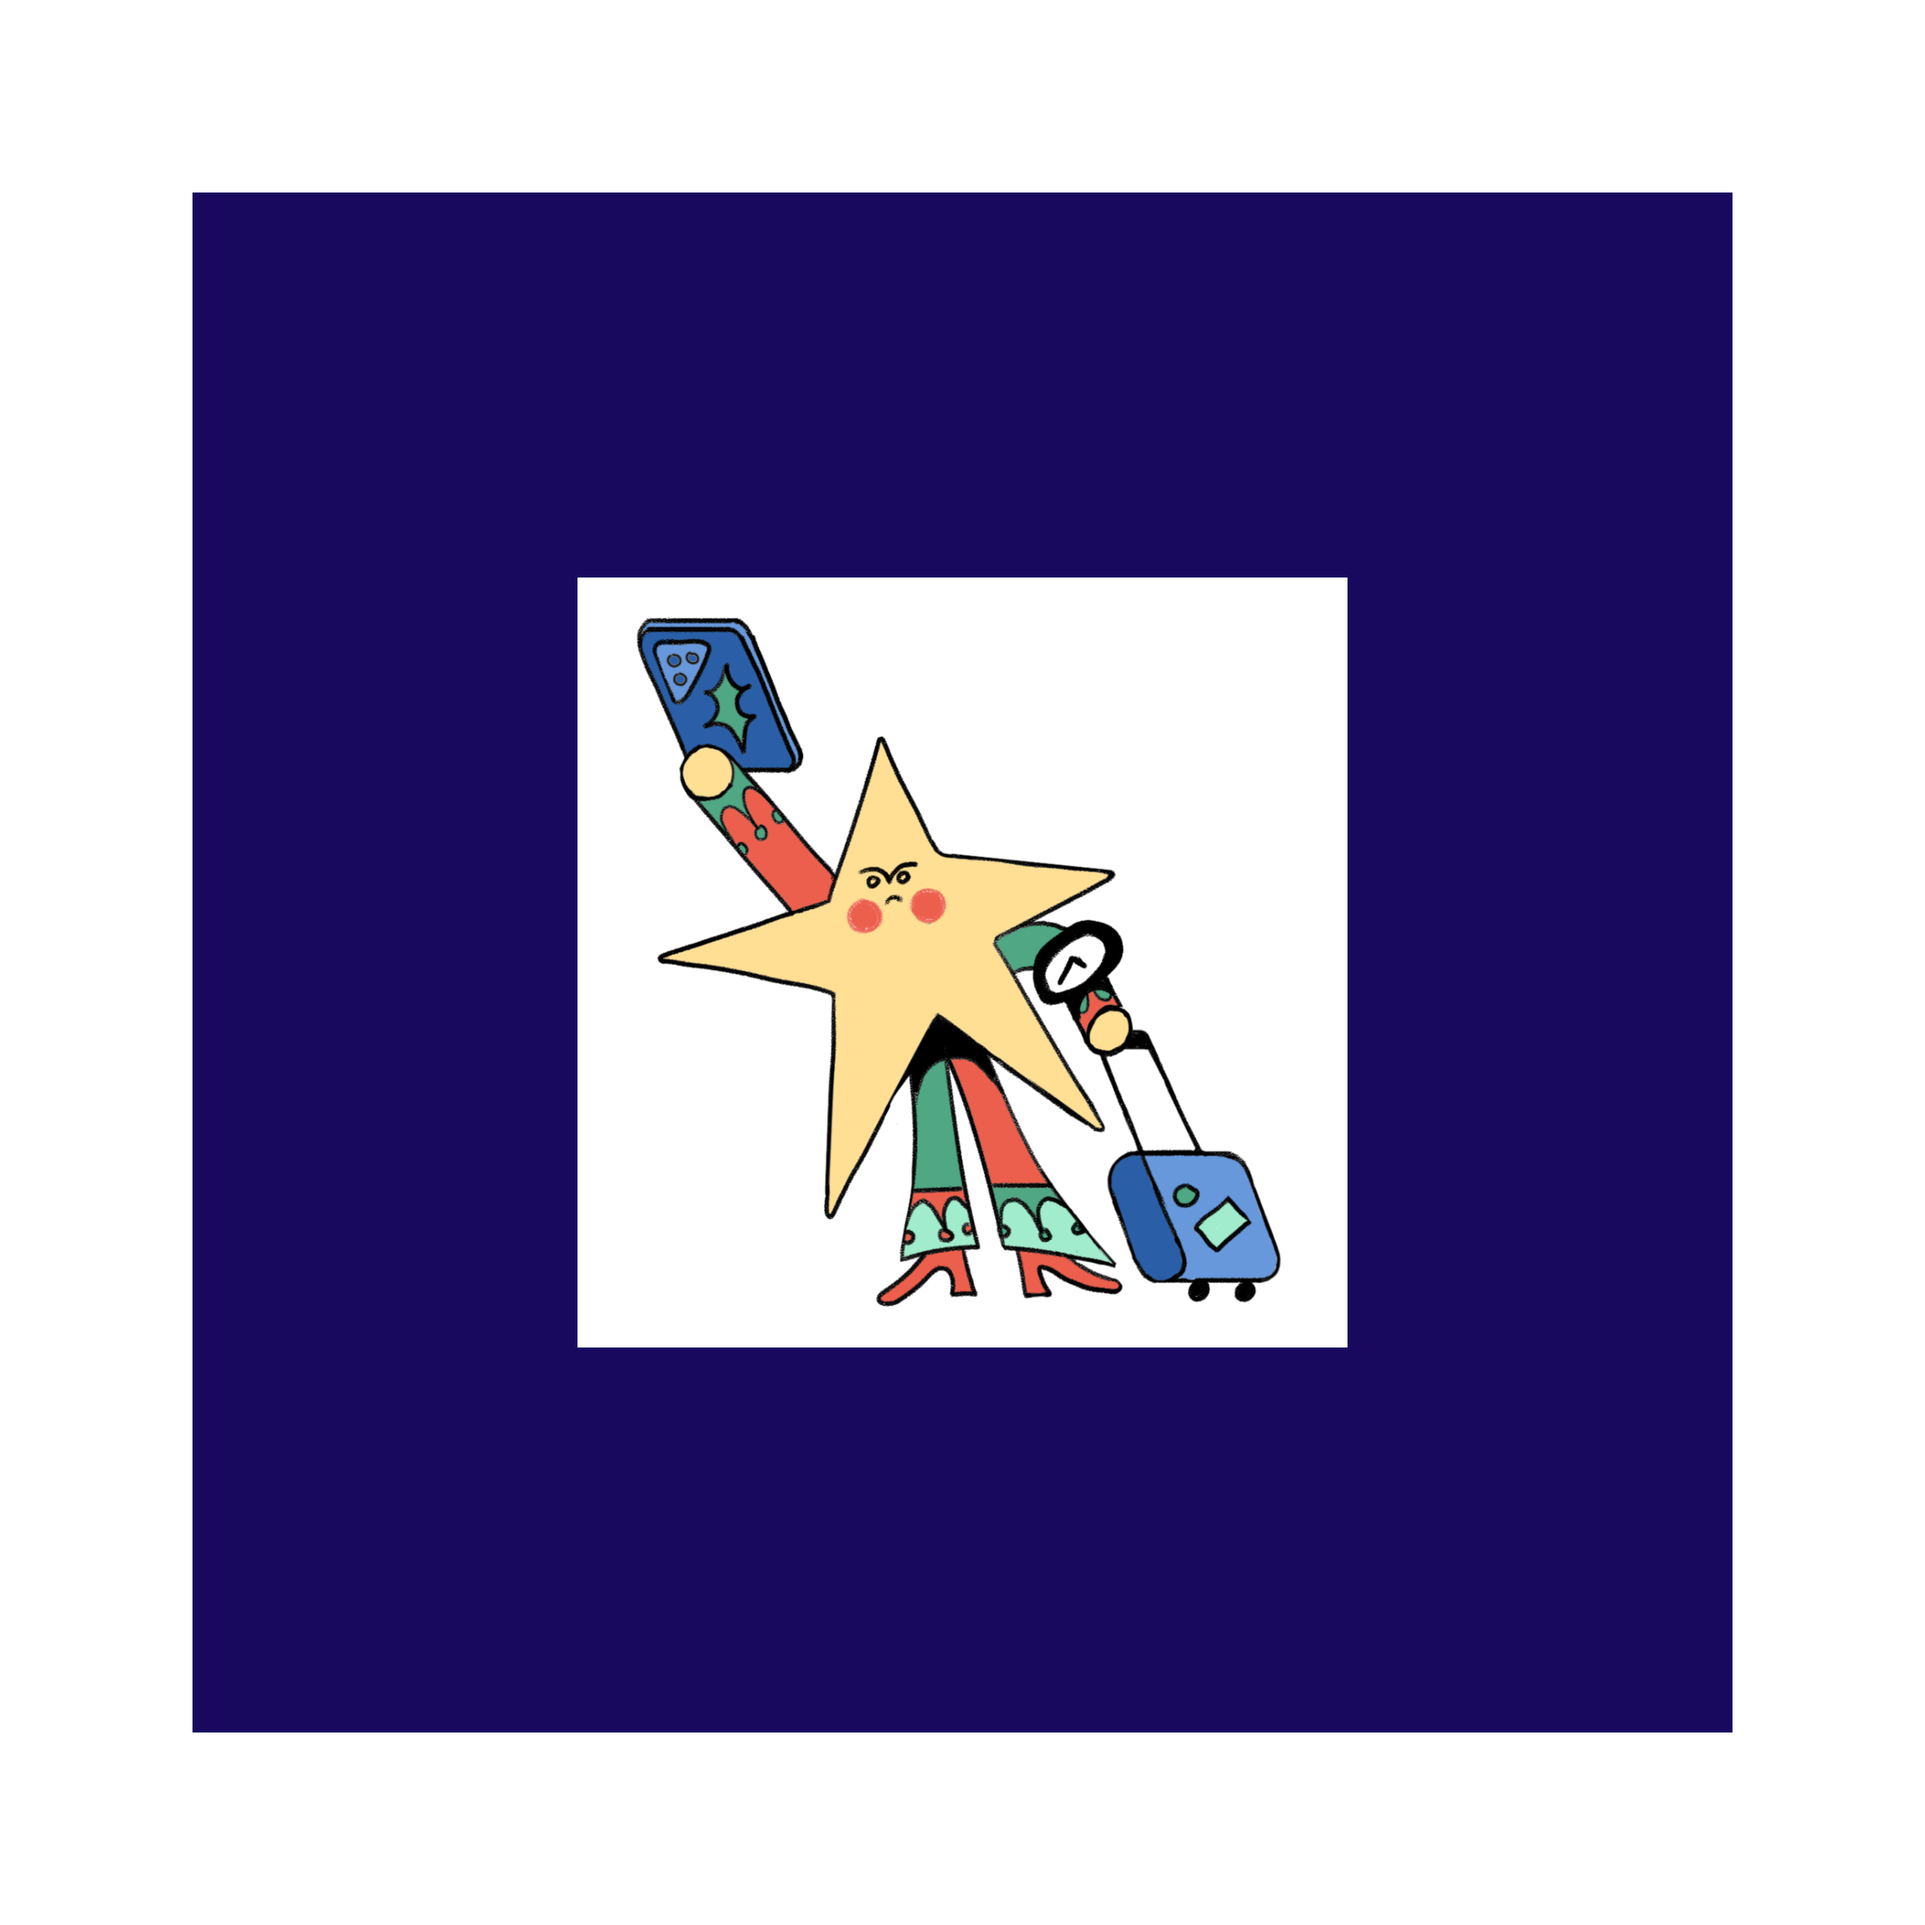
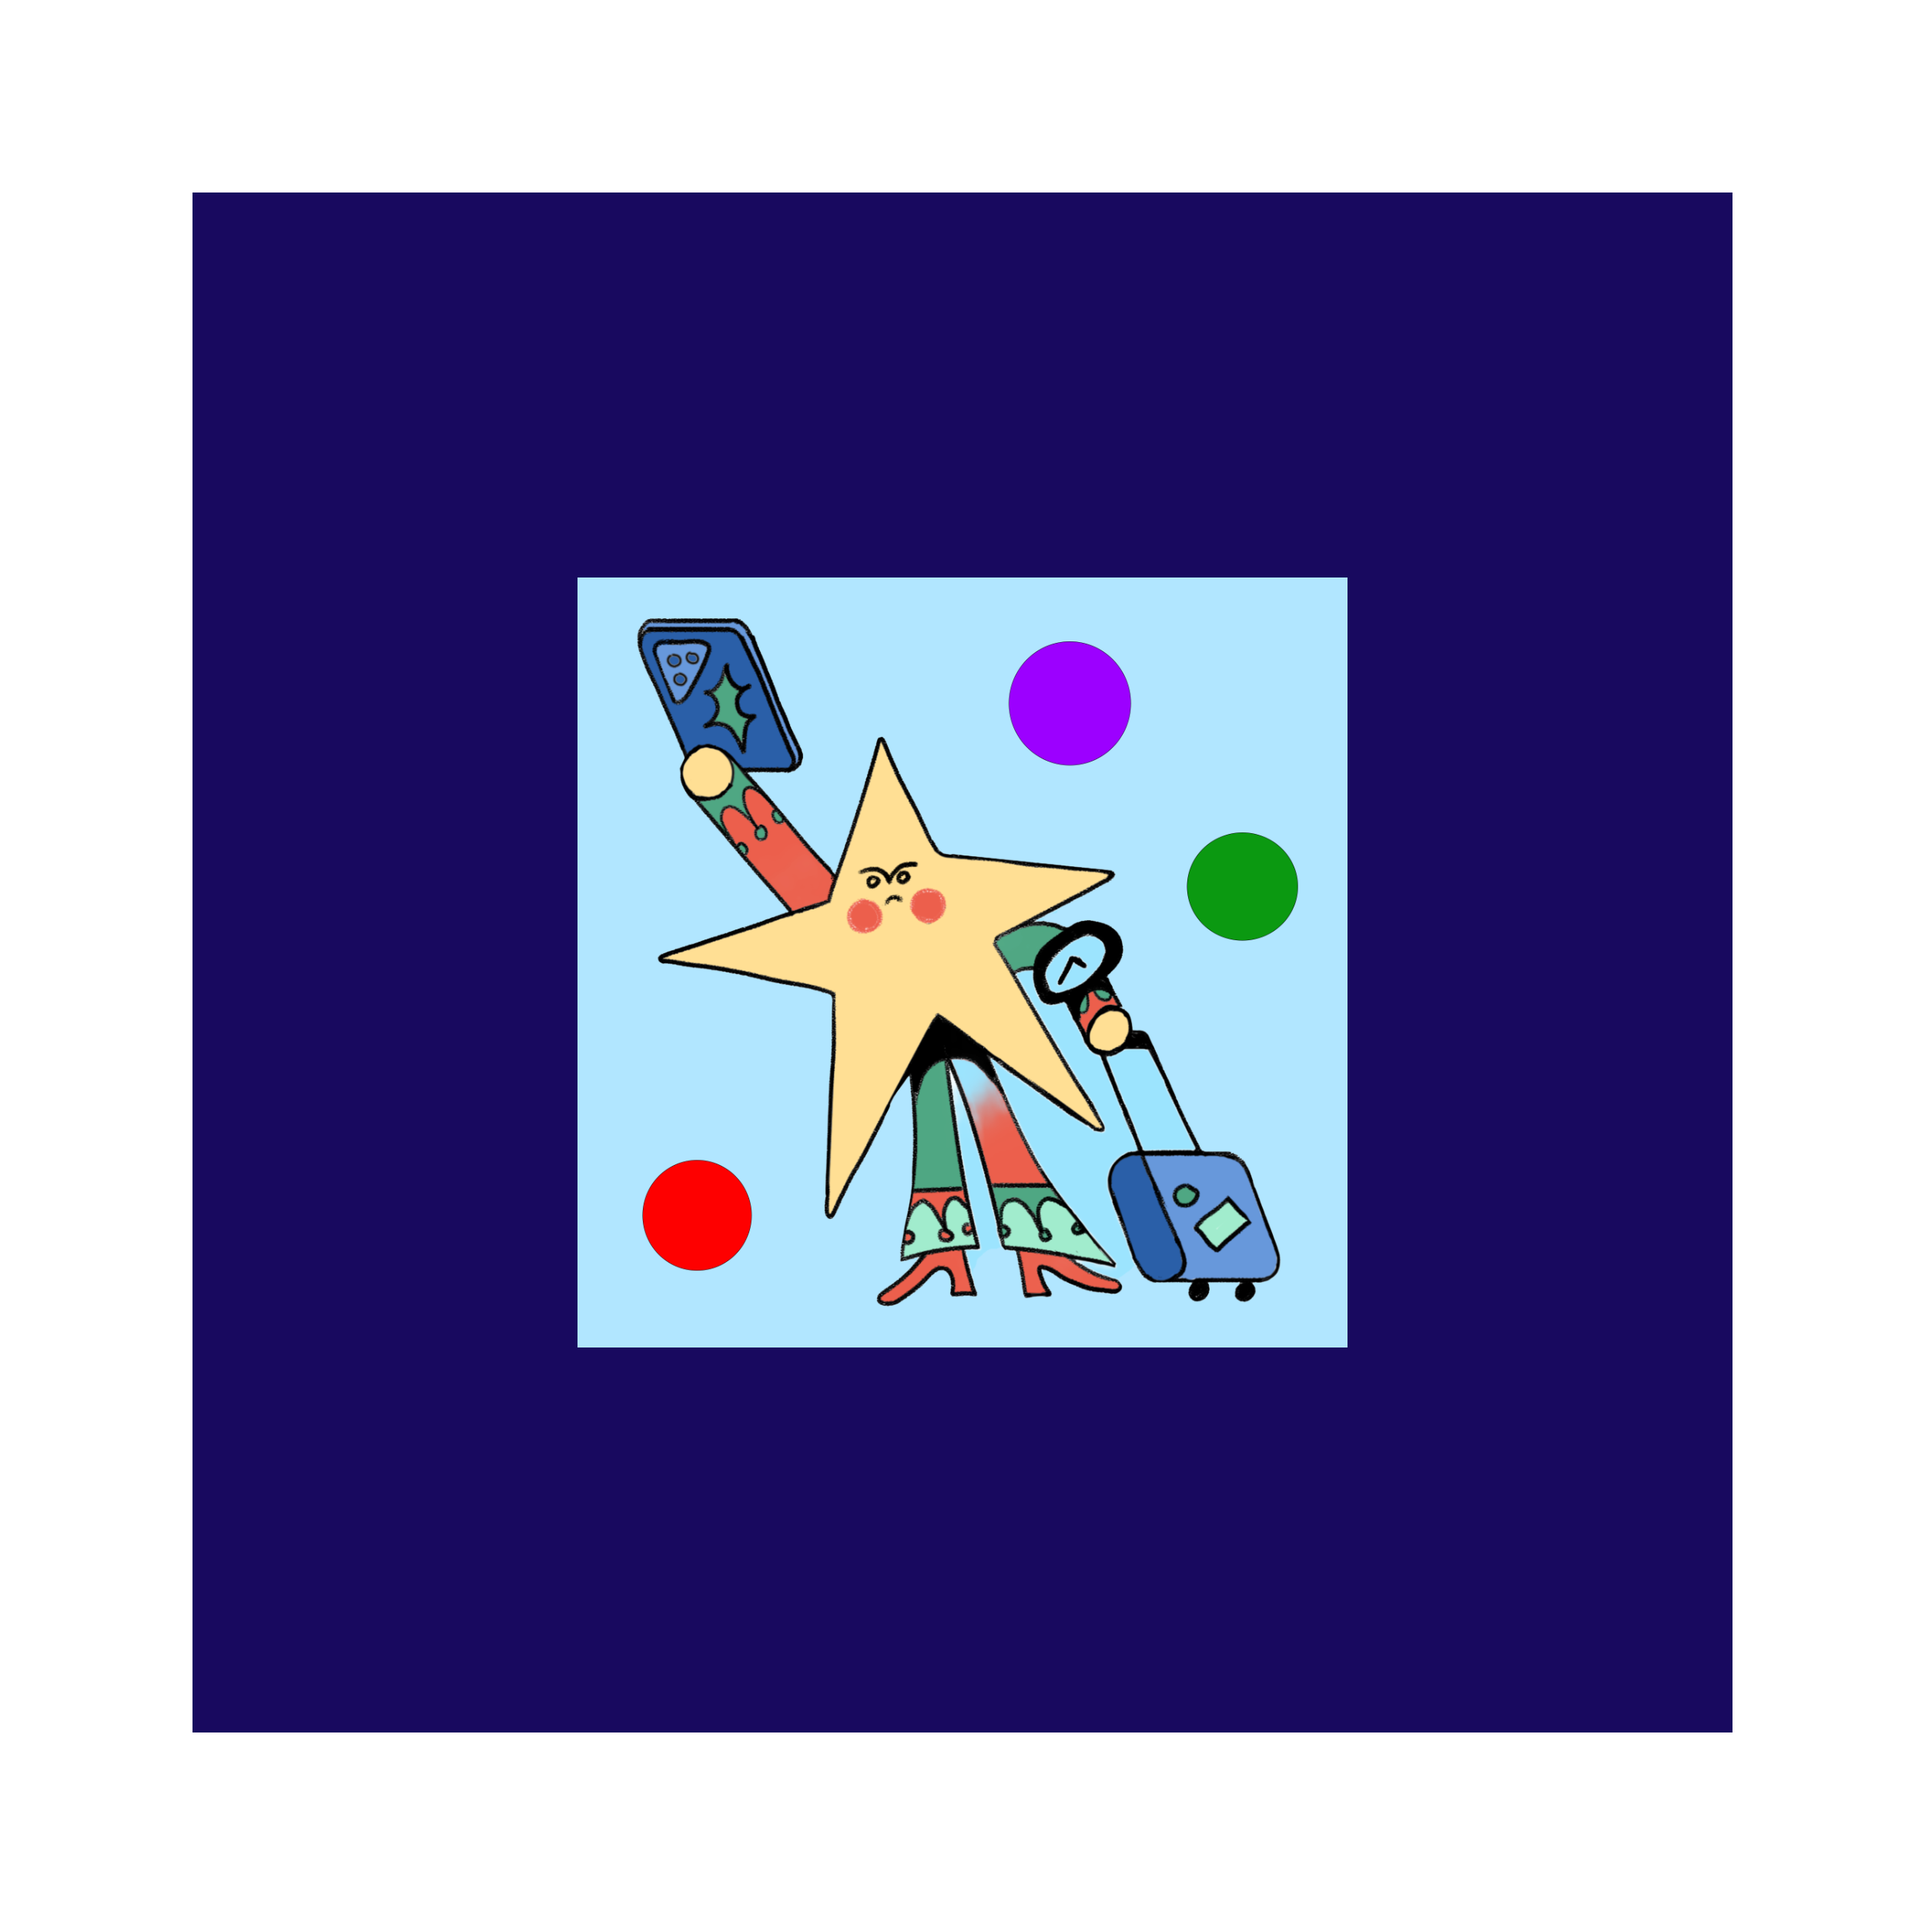
added spash page styling and artwork

Changed region(s): [[0.2808, 0.2808, 0.7176, 0.7176]]

diff --git a/index.html b/index.html
@@ -25,7 +25,19 @@
     body {
       margin: 0;
       padding: 0;
-      background: linear-gradient(180deg, #0f2240 0%, #1a4d6d 50%, #2d5a7b 100%);
+      background-color: #bacde9; 
+      background-image: 
+        linear-gradient(180deg, 
+          rgb(46, 93, 159) 0%, 
+          rgba(105, 147, 205, 0.9) 50%,
+          rgba(135, 206, 250, 0.1) 60%,
+          rgba(135, 206, 250, 0) 75%
+        ),
+        url('assets/characters.png');
+      background-size: auto 70%, 100% auto;
+      background-position: center top, center bottom;
+      background-repeat: no-repeat;
+      background-attachment: fixed;
       color: #fff;
       font-family: "Georgia", serif;
       min-height: 100vh;
@@ -65,14 +77,14 @@
       letter-spacing: 3px; 
       font-weight: 300; 
       position: relative;
-      animation: float 6s ease-in-out infinite;
+      /* animation: float 6s ease-in-out infinite; */
     }
     .tagline { 
       text-align: center; 
       font-size: 1.3em; 
       color: #e0f0ff; 
       text-shadow: 2px 2px 4px rgba(0,0,0,0.3); 
-      
+      padding: 1em 0em 3em 0em; 
       z-index: 10; 
       letter-spacing: 3px; 
       position: relative;
@@ -85,14 +97,14 @@
       display: flex; 
       flex: 1; 
       gap: 2em; 
-      padding: 2em; 
+      padding: 1em; 
       align-items: center; 
       justify-content: center; 
-      max-width: 1600px; 
+      max-width: 2000px; 
       margin: 0 auto; 
-      width: 100%; 
+      width: 90%; 
       position: relative; 
-      z-index: 5; 
+      z-index: 5;
     }
 
     .left-section {
@@ -104,6 +116,10 @@
       padding: 3em 2em;
       flex: 0 0 auto;
       max-width: 350px;
+      background: rgba(59, 103, 85, 0.9);
+      backdrop-filter: blur(10px);
+      border-radius: 30px;
+      border: 1px solid rgba(255,255,255,0.2);
     }
 
     .right-section {
@@ -111,16 +127,17 @@
       flex-direction: column;
       align-items: center;
       gap: 0;
-      background: rgba(255,255,255,0.05);
+      background: rgba(59, 103, 85, 0.8);
       backdrop-filter: blur(20px);
       padding: 0;
       border-radius: 30px;
       border: 1px solid rgba(255,255,255,0.1);
       box-shadow: 0 20px 60px rgba(0,0,0,0.4);
-      flex: 1;
-      min-width: 600px;
+      flex: 0 0 auto;
+      min-width: 1000px;
       overflow: hidden;
       animation: glow 4s ease-in-out infinite;
+      max-height: 80vh;
     }
 
     .section-title { 
@@ -176,9 +193,7 @@
       width: 100%; 
       height: 800px; 
       border-radius: 15px; 
-      overflow: hidden;
       box-shadow: 0 12px 30px rgba(0,0,0,0.4), inset 0 0 30px rgba(100,200,255,0.1);
-      border: 3px solid rgba(255,255,255,0.3);
       background: rgba(0,0,0,0.3);
     }
 
@@ -200,30 +215,25 @@
 <body>
   <div class="snowflakes" id="snowflakes"></div>
   
-  <h1>✨ Happy Holidays ✨</h1>
-  <div class="tagline">from Hornet</div>
-
   <div class="container">
     <div class="left-section">
-      <div class="decoration">❄</div>
-      <div class="section-title">Scan Me!</div>
+      
+      <div class="section-title">Scan QR Code</div>
       <div class="qr-container">
         <img src="assets/qr-code.png" alt="QR Code to launch AR" />
       </div>
       
-      <div class="decoration">⛄</div>
+      <div class="decoration">.</div>
       <div class="section-title">Point Camera Here!</div>
       <div class="marker-container">
         <img src="assets/pattern-star-dude.png" alt="AR Marker" />
       </div>
-      <div class="decoration">⭐</div>
+      
     </div>
 
     <div class="right-section">
-      <div class="viewer-header">
-        <div class="decoration"> .</div>
-        <div class="section-title">Model Viewer</div>
-      </div>
+      <h1> Happy Holidays </h1>
+      <div class="tagline">from Hornet</div>
       <div id="model-viewer"></div>
     </div>
   </div>
